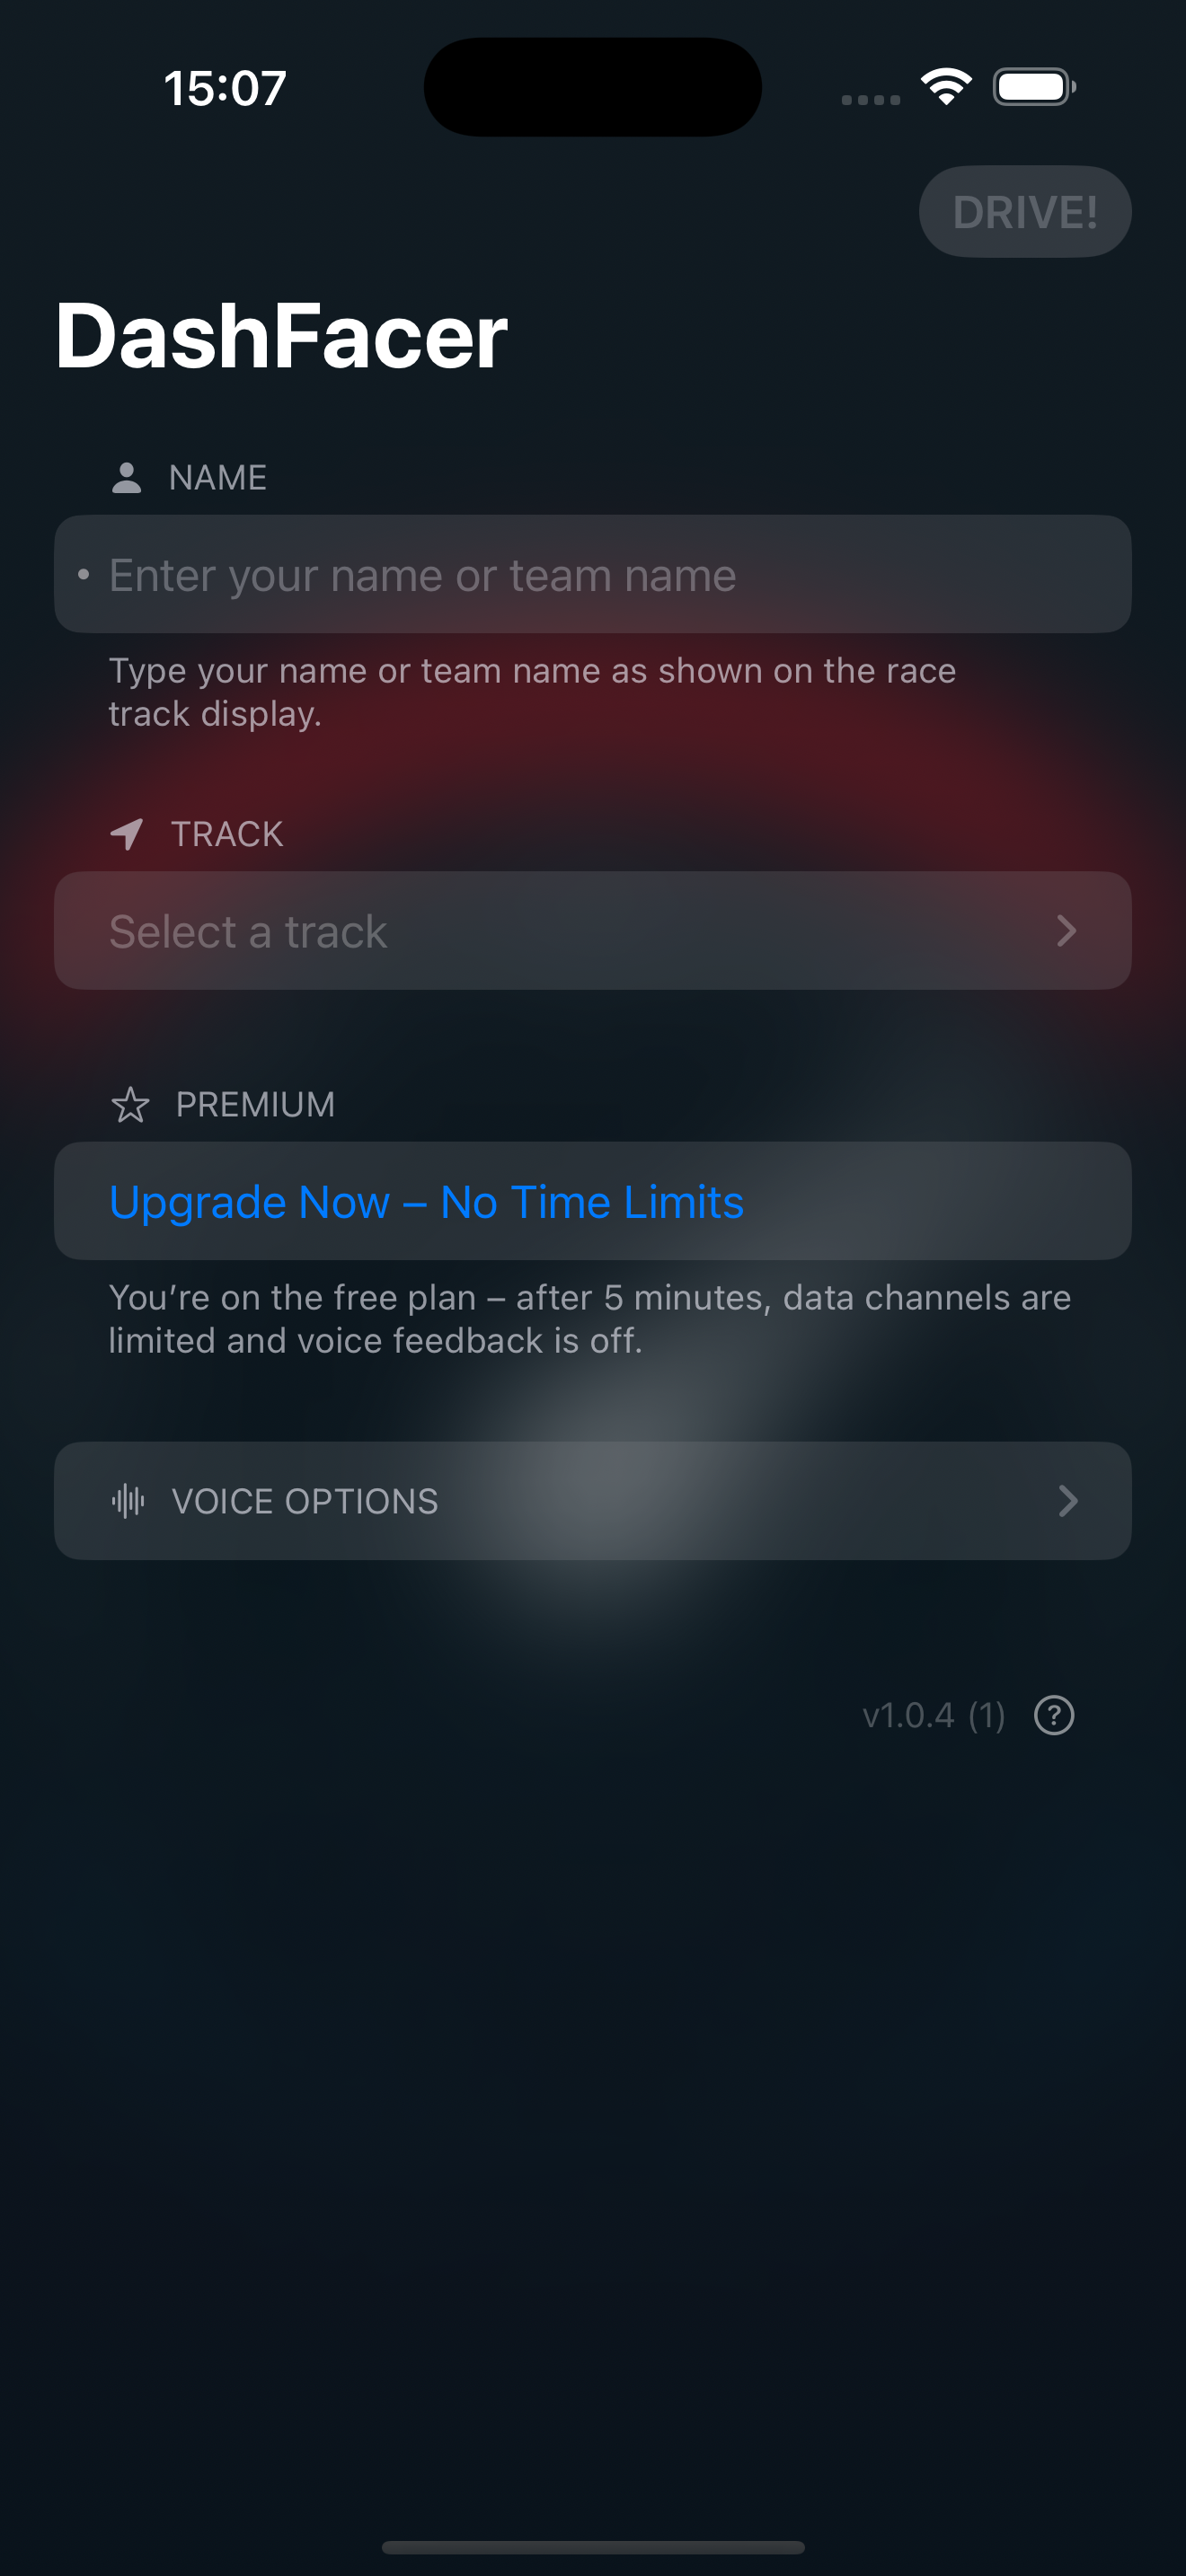
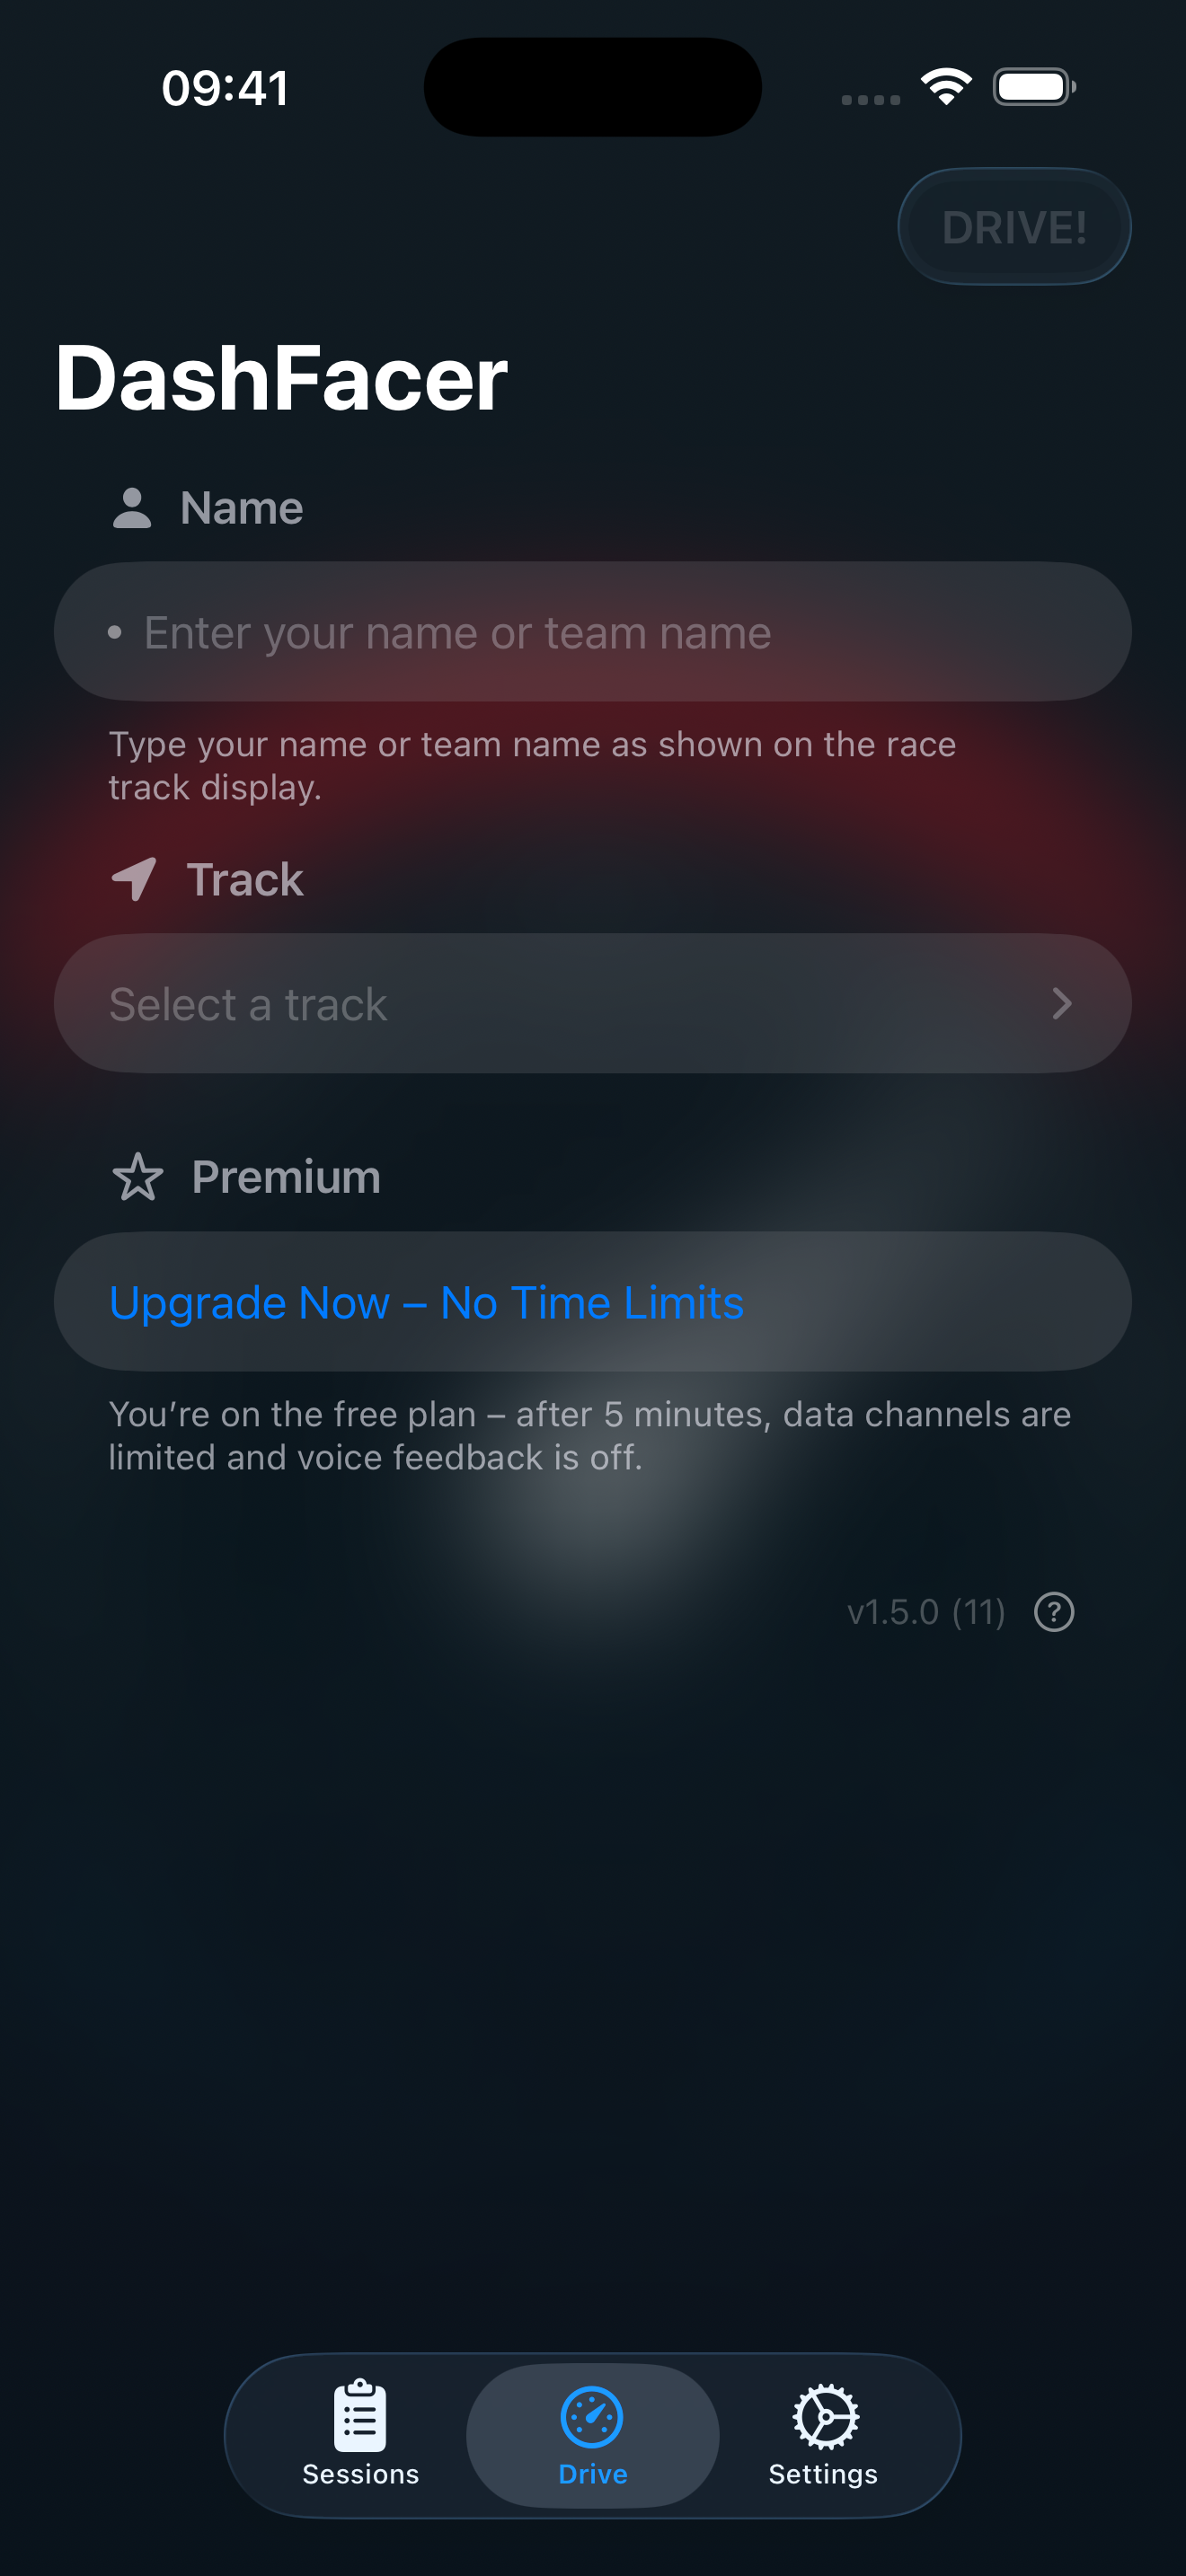
android

diff --git a/_sass/layout.scss b/_sass/layout.scss
@@ -49,7 +49,7 @@
 	grid-column-gap: 30px;
 	grid-template-areas: 
 		"h h h h h h h h h h h h"
-		"i i i i i i i o p p p p"
+		"i i i i i i i o o p p p"
 		"c c c c c c c c c c c c"
 		"f f f f f f f f f f f f";
 }
@@ -370,7 +370,7 @@ nav > ul li a:active {
 
 .downloadButtonsContainer {
 	display: inline-block;
-	margin-top: 42px;
+	margin-top: 32px;
 	filter: $drop-shadow;
 }
 
@@ -415,6 +415,8 @@ nav > ul li a:active {
 
 .iphonePreview {
 	grid-area: p;
+	width: 320px;
+	justify-self: end;
 	background-image: url($device-color);
 	background-size: 320px auto;
 	background-repeat: no-repeat;
@@ -431,6 +433,8 @@ nav > ul li a:active {
 
 .iphoneLandscapePreview {
 	grid-area: p;
+	width: 280px;
+	justify-self: end;
 	background-image: url($device-color);
 	background-size: 280px auto;
 	background-repeat: no-repeat;
@@ -462,6 +466,7 @@ nav > ul li a:active {
 @media only screen and (max-width: 1070px) {
 
 	.iphonePreview {
+		width: 286px;
 		background-size: 286px auto;
 	}
 
@@ -472,6 +477,7 @@ nav > ul li a:active {
 	}
 
 	.iphoneLandscapePreview {
+		width: 248px;
 		background-size: 248px auto;
 	}
 
@@ -498,6 +504,8 @@ nav > ul li a:active {
 @media only screen and (max-width: 992px) {
 
 	.iphonePreview {
+		width: auto;
+		justify-self: stretch;
 		display: flex;
 		background-size: 260px auto;
 		background-position: center 0;
@@ -516,6 +524,8 @@ nav > ul li a:active {
 	}
 
 	.iphoneLandscapePreview {
+		width: auto;
+		justify-self: stretch;
 		display: flex;
 		background-size: 220px auto;
 		background-position: center 0;

diff --git a/_pages/app-qr.md b/_pages/app-qr.md
@@ -6,15 +6,16 @@ include_in_footer: false
 ---
 
 <script>
-    // Helper to get current URL's query string (preserves utm_* if present)
     const query = window.location.search;
+    const ua = navigator.userAgent || navigator.vendor || window.opera;
 
-    // Your App Store link (replace ID)
-    const appStoreBase = 'https://apps.apple.com/app/id{{ site.ios_app_id }}';
+    const isAndroid = /android/i.test(ua);
 
-    const forwardParams = query; // or filter if needed
+    const appStoreUrl = 'https://apps.apple.com/app/id{{ site.ios_app_id }}' + query;
+    const playStoreBase = '{{ site.playstore_link }}';
+    const playStoreUrl = query ? playStoreBase + (playStoreBase.includes('?') ? '&' : '?') + query.slice(1) : playStoreBase;
 
-    const target = appStoreBase + forwardParams;
+    const target = isAndroid ? playStoreUrl : appStoreUrl;
 
     setTimeout(() => {
         window.location.href = target;
@@ -22,10 +23,10 @@ include_in_footer: false
 </script>
 
 <p style="text-align: center;">
-    Redirecting to the App Store.
+    Redirecting to the app store for your device.
     <br>
-    If you’re not redirected automatically, 
-    <a id="fallback" href="https://apps.apple.com/app/id{{ site.ios_app_id }}">
-        click here
-    </a>.
+    If you are not redirected automatically, download on
+    <a href="https://apps.apple.com/app/id{{ site.ios_app_id }}">App Store</a>
+    or
+    <a href="{{ site.playstore_link }}">Google Play</a>.
 </p>